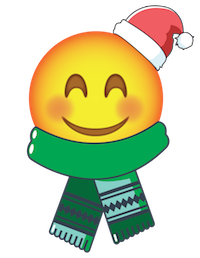
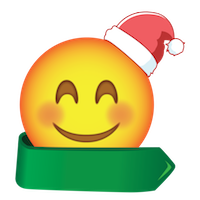
prices info & animation added

diff --git a/creative.html b/creative.html
@@ -27,11 +27,11 @@
         </div>
         <div class="fliers-container" style="z-index: 2">
             <div class="flying-price">
-                <span class="old-price-label"></span>
+                <span class="old-price-label">100rub</span>
             </div>
             <div class="action-price">
                 <img src="images/smile-positive.png" alt="">
-                <span class="final-price-label"></span>
+                <span class="final-price-label">50rub</span>
             </div>
         </div>
         <div class="discount-container">
@@ -69,8 +69,8 @@
 
         itemImage.src = currentItem["image"];
         // itemName.innerText = currentItem["name"];
-        // finalPriceLabel.innerText = currentItem["new-price"];
-        // oldPriceLabel.innerText = currentItem["old-price"];
+        finalPriceLabel.innerHTML = currentItem["new-price"];
+        oldPriceLabel.innerHTML = currentItem["old-price"];
         discount.innerHTML = currentItem["discount"];
         canvas.style.borderColor = currentItem["border-color"];
 

diff --git a/game-data.js b/game-data.js
@@ -2,24 +2,24 @@ var gameItems = [
     {
         "image": "item-1.png",
         "name": "Apple iPhone 7 Plus 32GB",
-        "old-price": "54990 р",
-        "new-price": "46990 р",
+        "old-price": "54990 &#8381;",
+        "new-price": "46 990 &#8381;",
         "discount": "- 8000 &#8381;",
         "border-color": "#009d9c"
     },
     {
         "image": "item-2.png",
         "name": "Телефон Samsung Galaxy J7",
-        "old-price": "17990 р",
-        "new-price": "14990 р",
+        "old-price": "17990 &#8381;",
+        "new-price": "14 990 &#8381;",
         "discount": "- 3000 &#8381;",
         "border-color": "#ce8e38"
     },
     {
         "image": "item-3.png",
         "name": "Фитнес-браслет Xiaomi Mi Band 2",
-        "old-price": "2990 р",
-        "new-price": "1490 р",
+        "old-price": "2990 &#8381;",
+        "new-price": "1 490 &#8381;",
         "discount": "- 1500 &#8381;",
         "border-color": "#cbd7d5"
     }

diff --git a/game.css b/game.css
@@ -43,7 +43,7 @@ body * {
     background: url(images/smile-negative.png) no-repeat;
     background-size: cover;
     width: 110px;
-    height: 152px;
+    height: 110px;
     content: "";
 
     position: absolute;
@@ -51,7 +51,7 @@ body * {
     left: 100px;
     top: 100px;
 
-    padding-top: 30px;
+    padding-top: 83px;
     text-align: center;
     color: #222;
 
@@ -65,12 +65,14 @@ body * {
 .final-price-label {
     display: block;
     position: absolute;
-    width: 100%;
+    left: 15%;
+    width: 60%;
     text-align: center;
-    height: 100%;
-    line-height: 180px;
-    font-size: 22px;
-    vertical-align: middle;
+    /*height: 100%;*/
+    /*line-height: 180px;*/
+    font-size: 24px;
+    top: 77%;
+    /*vertical-align: middle;*/
 }
 .flying-price.chosen {
     background: red;
